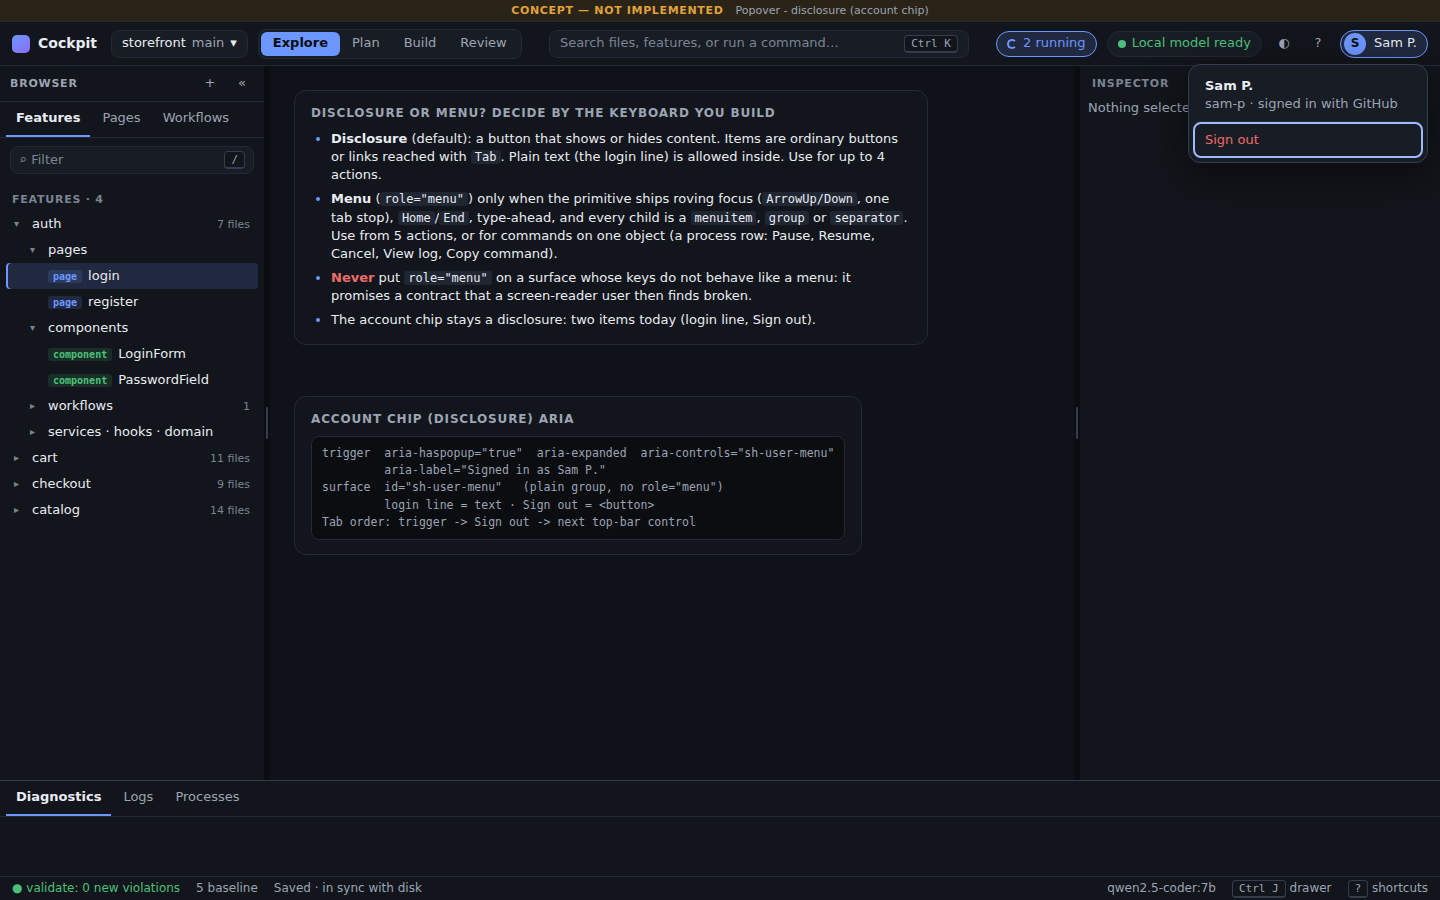
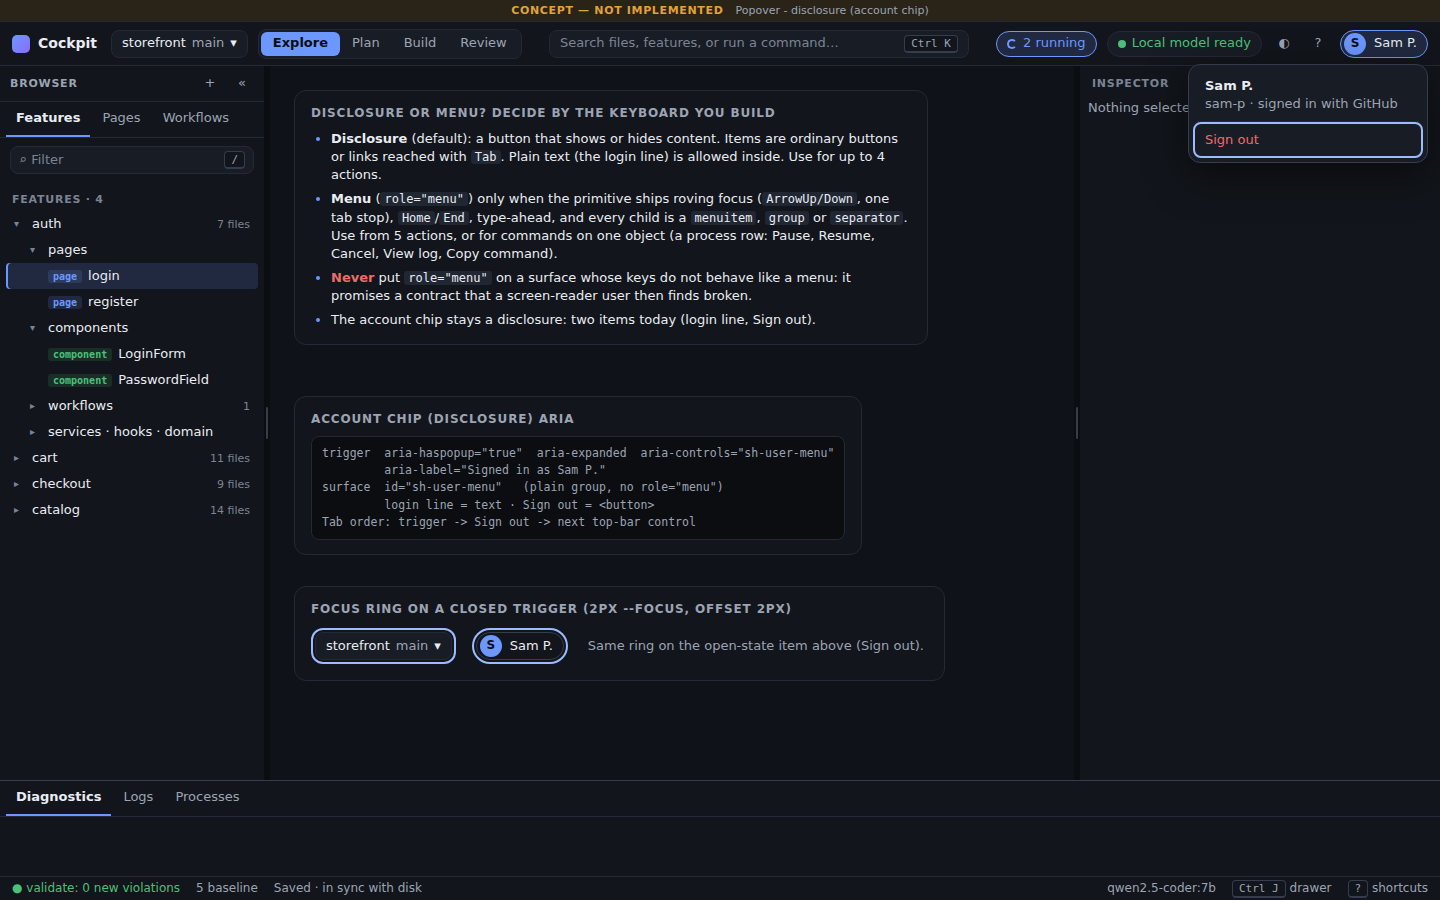
popover mock: show focus ring on closed triggers (#297)

Changed region(s): [[0.2188, 0.6533, 0.625, 0.7467]]

diff --git a/docs/design/mocks/popover-disclosure.html b/docs/design/mocks/popover-disclosure.html
@@ -54,7 +54,7 @@
          aria-label="Signed in as Sam P."
 surface  id="sh-user-menu"   (plain group, no role="menu")
          login line = text · Sign out = &lt;button&gt;
-Tab order: trigger -> Sign out -> next top-bar control</div></div></div></section><div class="resizer" role="separator" aria-orientation="vertical" tabindex="0"></div>
+Tab order: trigger -> Sign out -> next top-bar control</div></div><div class="spec" style="left:24px;top:520px"><h3>Focus ring on a closed trigger (2px --focus, offset 2px)</h3><div style="display:flex;gap:24px;align-items:center;padding:6px 4px"><button class="chip-btn focus-ring" aria-haspopup="dialog" aria-expanded="false">storefront <span class="sub">main</span> ▾</button><button class="acct focus-ring" aria-haspopup="true" aria-expanded="false" aria-label="Signed in as Sam P."><span class="av" aria-hidden="true">S</span>Sam P.</button><span style="color:var(--text-muted)">Same ring on the open-state item above (Sign out).</span></div></div></div></section><div class="resizer" role="separator" aria-orientation="vertical" tabindex="0"></div>
     <aside class="pane" aria-label="Tools"><div class="sect">Inspector</div><div class="row muted">Nothing selected</div></aside>
   </div>
   <div class="drawer" aria-label="Drawer"><div class="tabs" role="tablist"><button role="tab" class="on">Diagnostics</button><button role="tab">Logs</button><button role="tab">Processes</button></div><div class="body"></div></div>
